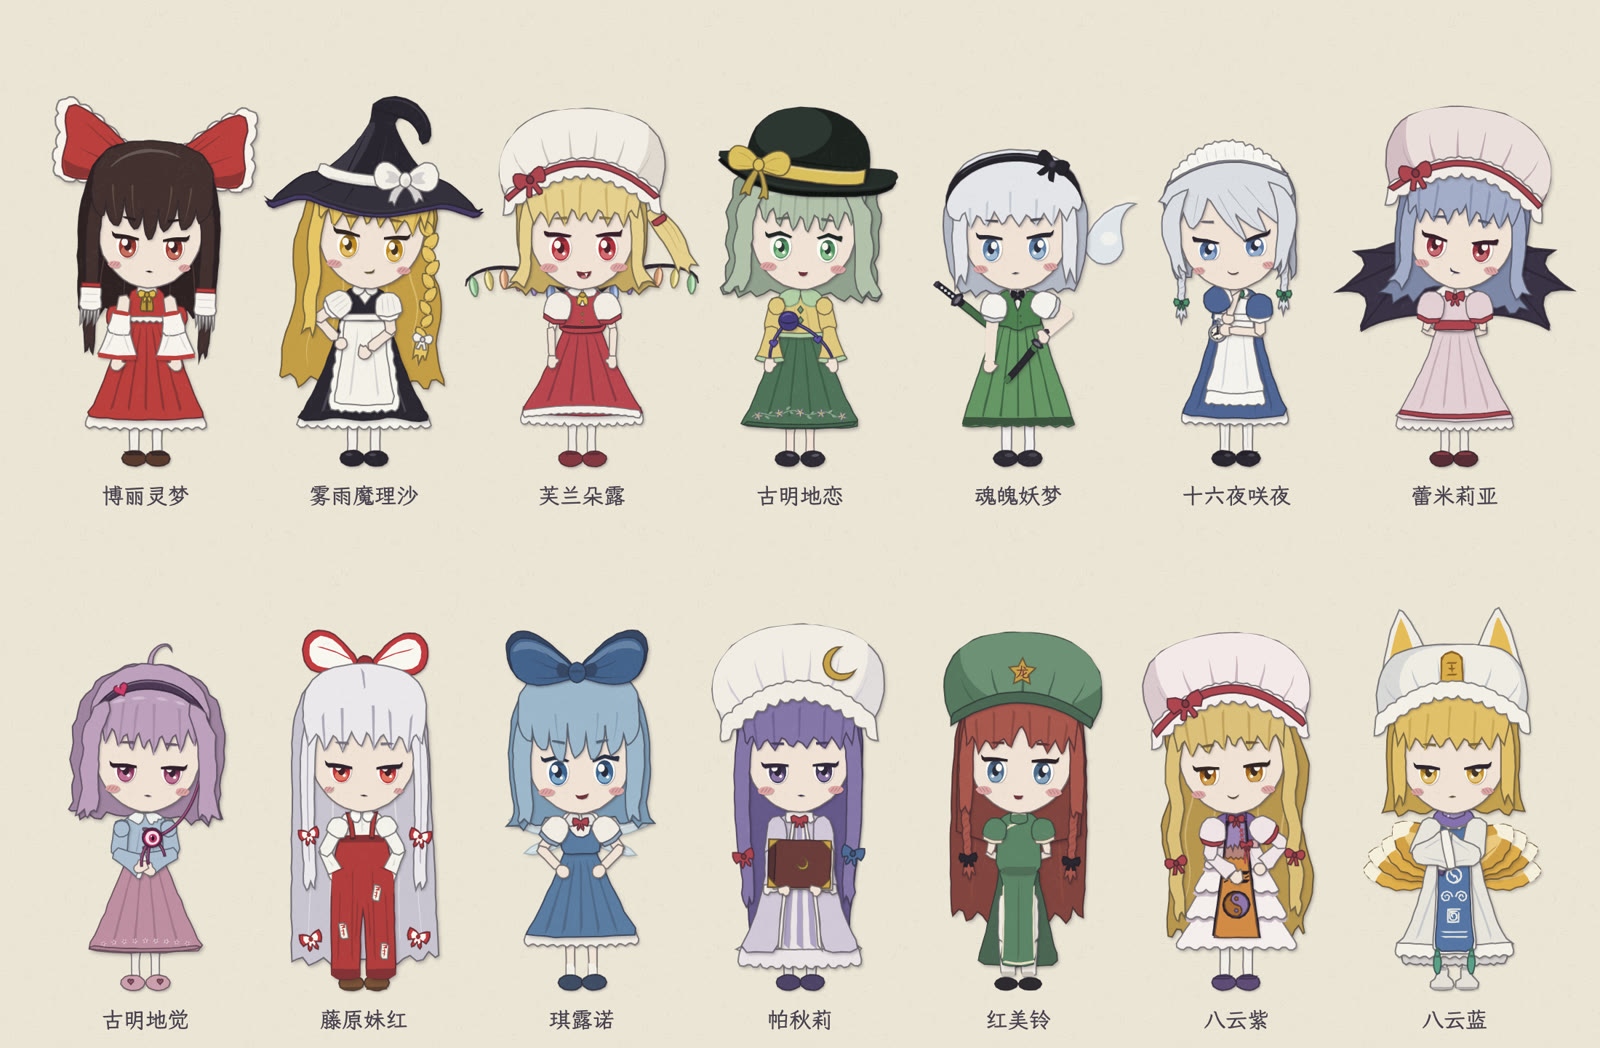
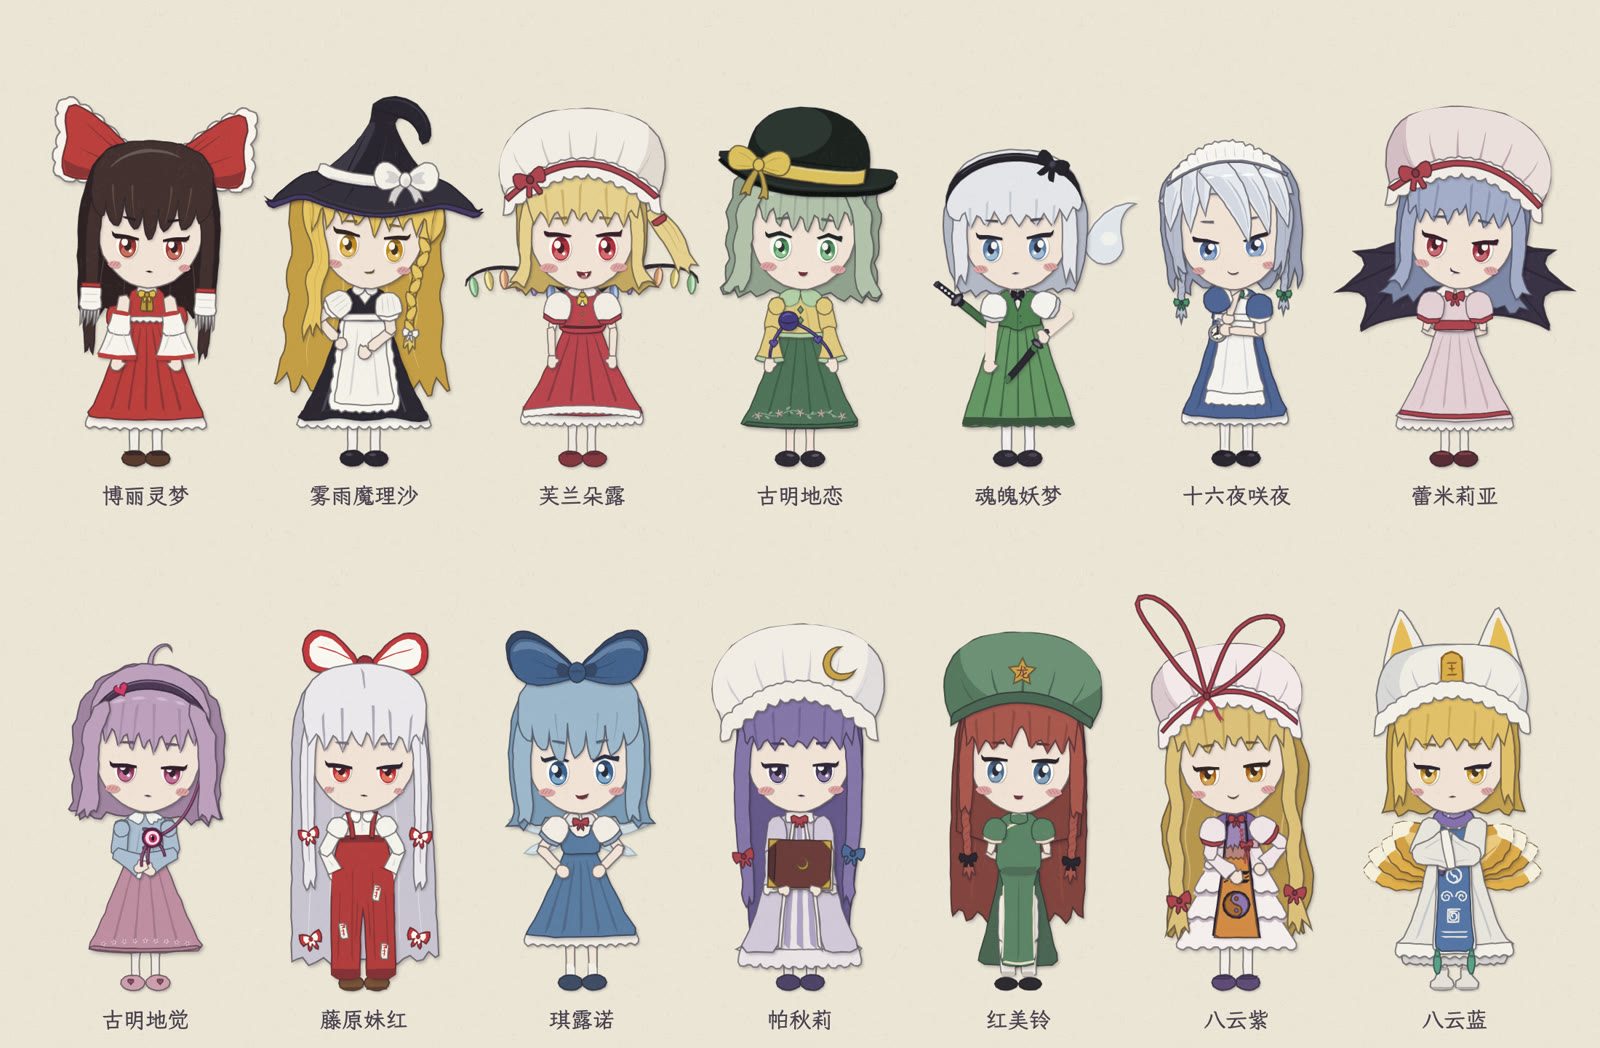
魔理沙眉毛下移离开帽檐；合照重拍（魔理沙、咲夜、八云紫返修后）

diff --git a/src/character/marisa.js b/src/character/marisa.js
@@ -283,7 +283,7 @@ const MAR_RIG = {
   headSway: [.016, .9, 1],
   // 五官（头坐标，和帕秋莉同一套：眼睛 (±28,-54)、rx 13 ry 16，乘 1.2 后落到规格的位置）
   face: { style: 'layered', ex: 28, ey: -54, far: .28, turnX: 12, rx: 13, ry: 16, lookX: 3.4, mouthY: -24, mouthTurn: 13,
-    blush: { dx: 14, turn: 1, y: -30, bump: 1, rx: 10, ry: 5, hatch: true }, brow: { x: 28, y: -86, len: 8.5, seed: 198, th: [1.6, 1.4, .2, 1.1, 1.6] } },
+    blush: { dx: 14, turn: 1, y: -30, bump: 1, rx: 10, ry: 5, hatch: true }, brow: { x: 28, y: -80, len: 8.5, seed: 198, th: [1.6, 1.4, .2, 1.1, 1.6] } },
   arm: { parent: 'ug', shoulder: MAR_SH, upper: MAR_ARM, fore: MAR_ARM, mirrorHand: true, tips: RIG_SHAPES.handTip,
     hands: { open: 'handOpen', fist: 'handFist', point: 'handPoint', grip: 'handGrip' } },
   // 待机：站得稳，只轻晃、呼吸；骑扫帚时整个人上下浮动；头发、帽尖、辫子有弹簧
